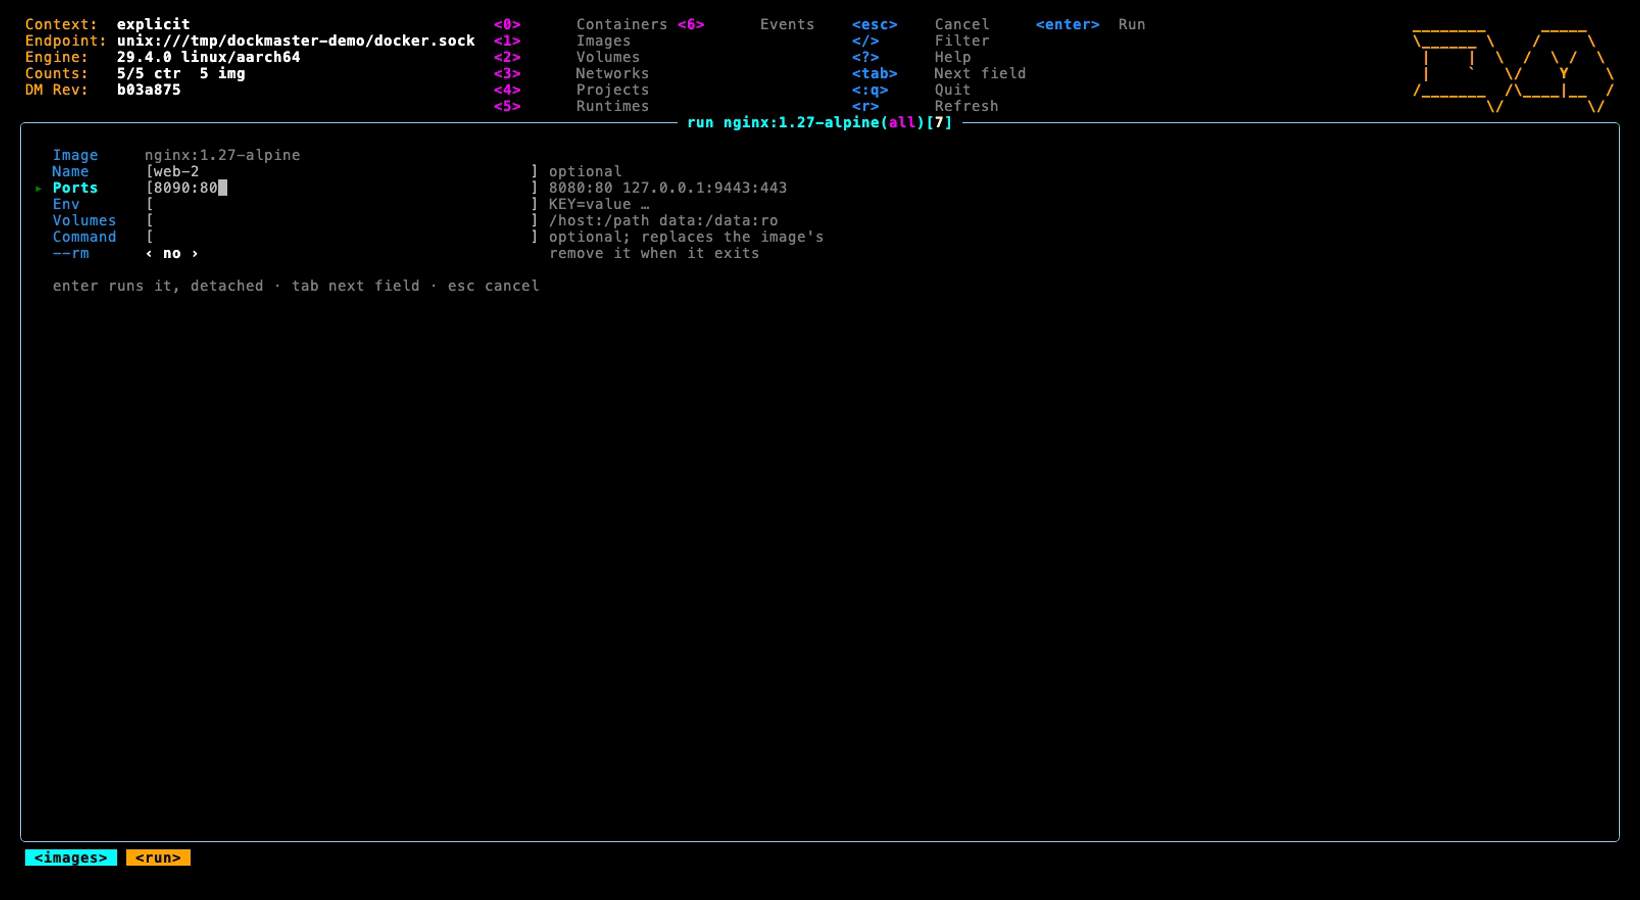
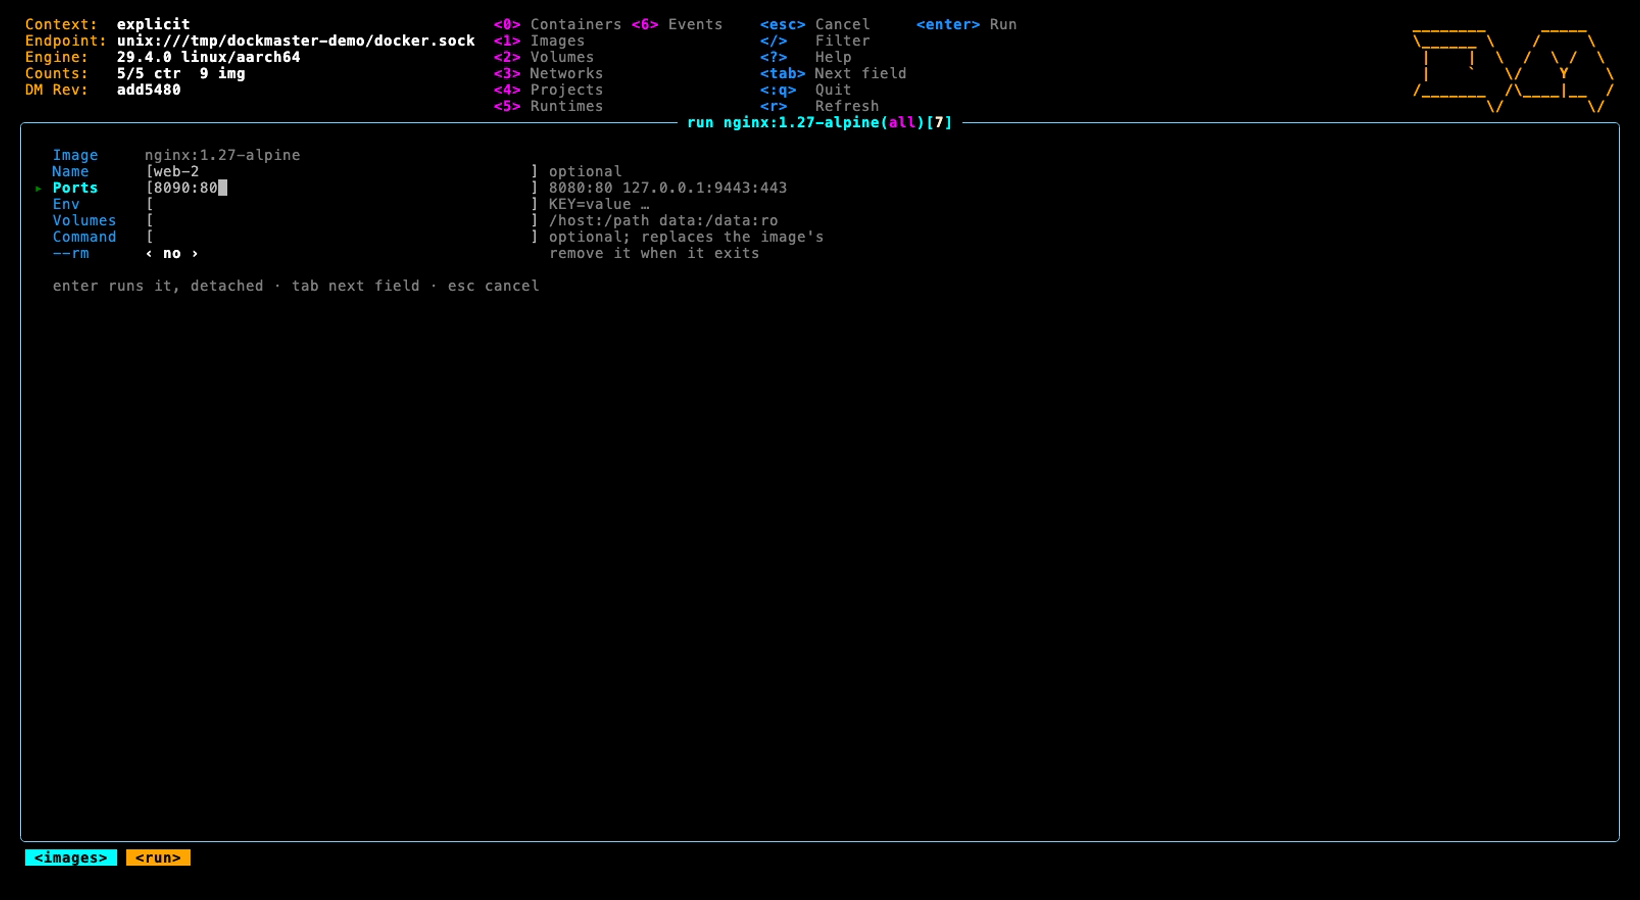
docs: re-render the screenshots, with marks and the volume browser
The header is spaced as k9s spaces it since tuikit v0.0.13, so every shot
changed; marks and the volume browser get shots of their own, and the log
shot shows a mark.

Changed region(s): [[0.4665, 0.0, 0.6841, 0.1244], [0.311, 0.0, 0.4354, 0.1244], [0.0622, 0.0933, 0.1244, 0.1244]]

diff --git a/README.md b/README.md
@@ -78,7 +78,9 @@ Every destructive action asks first, and `--readonly` refuses them outright.
 | ![Help: every key the view takes](docs/images/help.png) | ![A container's healthcheck, probe by probe](docs/images/health.png) |
 | **`?`** — every key the view takes, by section | **`H`** — a container's healthcheck, newest probe first |
 | ![Tailing a container's log](docs/images/logs.png) | ![Running a container from an image](docs/images/run.png) |
-| **`enter`** — the log, following, with its toggles | **`u`** on an image — `docker run` as a form |
+| **`enter`** — the log, following, with a mark (`m`) | **`u`** on an image — `docker run` as a form |
+| ![Two containers marked for a bulk action](docs/images/marks.png) | ![Browsing a volume's files](docs/images/volume.png) |
+| **`space`** — rows marked; `x`, `R` or `ctrl-d` act on all of them | **`enter`** on a volume — its files, read through a read-only helper |
 
 `make screenshots` regenerates all of them — see [Development](#development).
 
